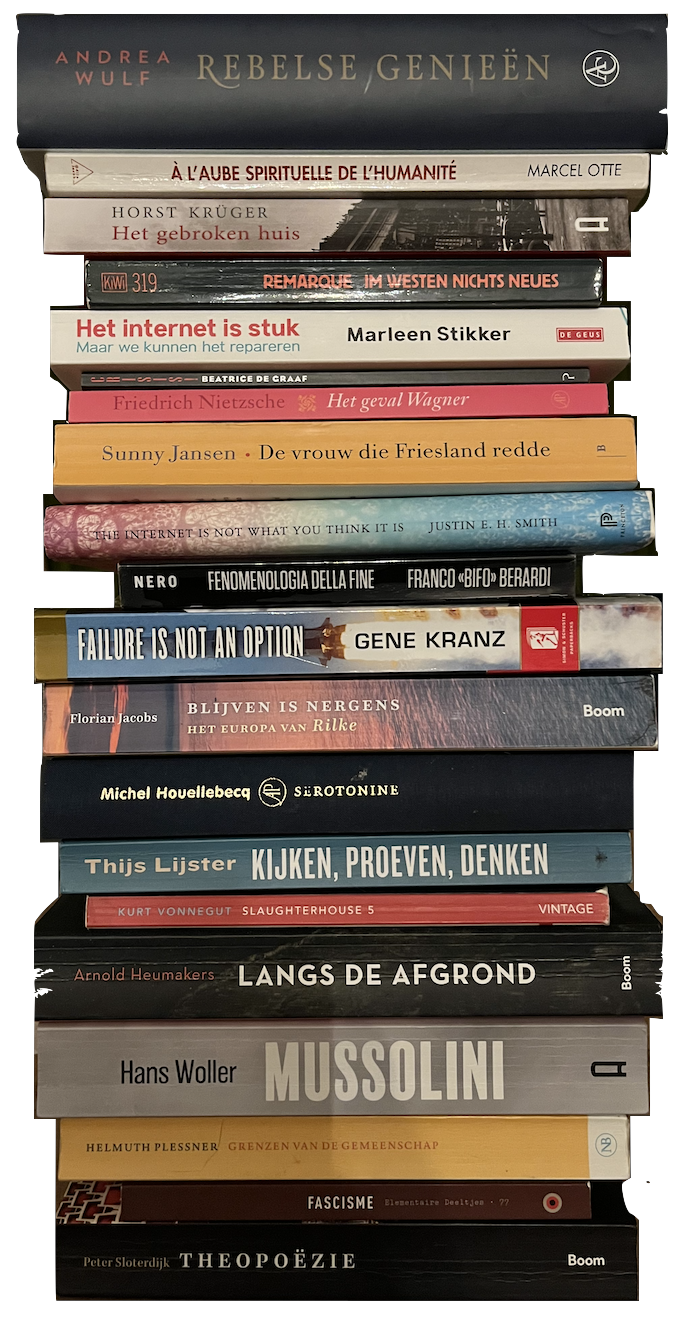
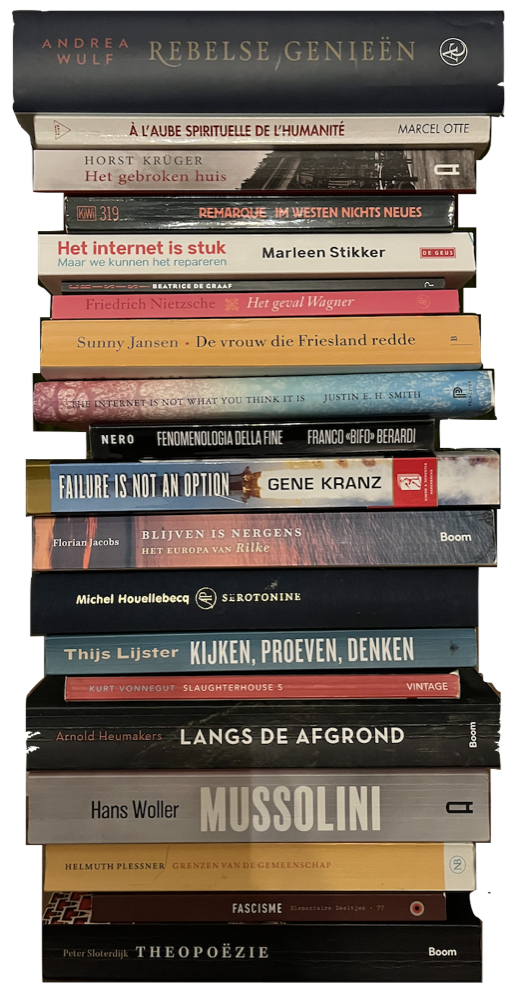
plaatjes aangepast en toegevoegd.

diff --git a/index.html b/index.html
@@ -15,7 +15,8 @@
     </div>
 
     <h1>Boeken gelezen in 2024</h1>
-    <p>Op deze pagina's doe ik verslag van de boeken die ik heb uitgelezen. </p>
+    <p id="stapel-boeken"><img src="imgs/2024.png" alt="Alle boekjes op een stapel"></p>
+    <!-- <p>Op deze pagina's doe ik verslag van de boeken die ik heb uitgelezen. </p> -->
     <p class="stats">n=19; &Sigma;=5349; &mu;=281,5; &sigma;=149,5; min=122; max=728</p>
     <p class="small">Bekijk ook de boeken die ik las <a href="2022.html">in 2022</a> of de boeken die ik las <a href="2023.html">in 2023</a>.</p>
     </header>
